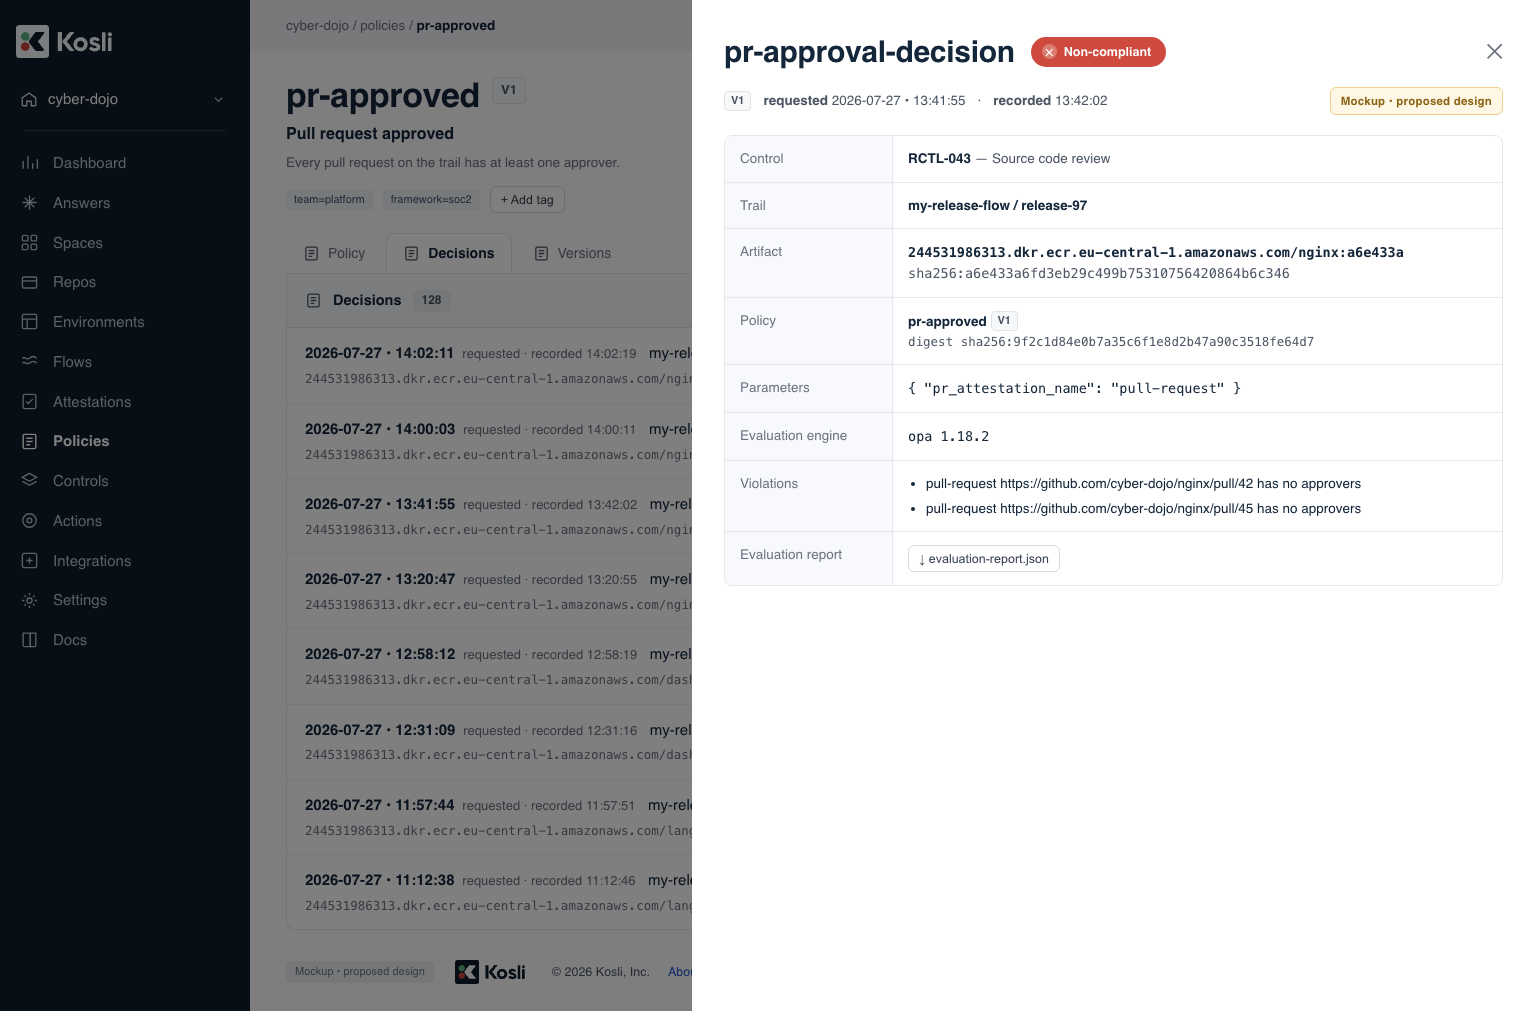
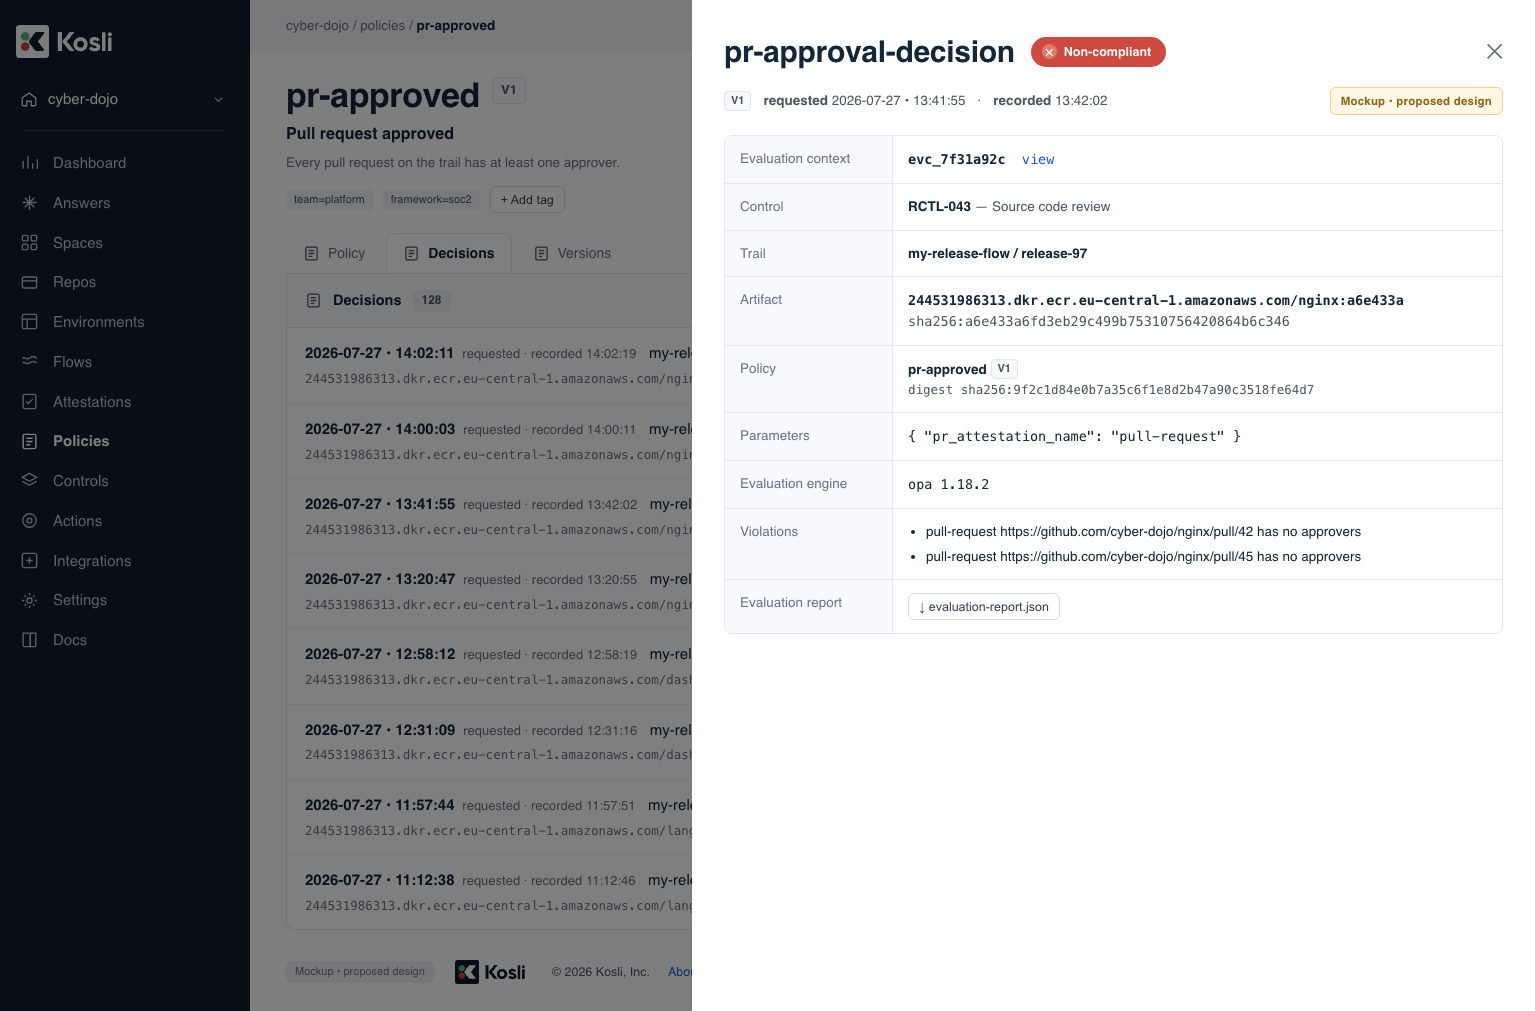
docs: export the evaluation context, and rename the flag to --context
Two corrections to the offline re-run and the command surface.

The export is now kosli get evaluation-context, not kosli get decision. The
evaluation context is the entity that actually holds what an evaluation was
given, so exporting the decision meant reaching through it to find the inputs.
More importantly a context exists from the moment an evaluation is queued, so
this also works when there is no decision to look at — a queued evaluation, or
one that failed, which is the case you most want to inspect. Decisions now name
the context they came from, in the decision detail mockup and in the
recorded-on-the-decision table, so the context ID is one hop away.

Rename --evaluation-context to --context. The old name described the entity
Kosli builds rather than what you pass, and it would have blocked the obvious
spelling for re-running a stored context (--context evc_...). --context also
survives the scope growing beyond attestations: a reported workload is a state
report, not a fact, so "facts" would have been wrong for it, while
--context snapshot=... reads naturally. --context-schema needs no change.

Note in the flag description that this selects what to evaluate, not a cluster
or account — kubectl has trained this audience to read --context the other way.

diff --git a/mockups/policies-ui/build.py b/mockups/policies-ui/build.py
@@ -345,6 +345,8 @@ tray = f"""<div class="scrim"></div>
       <span class="mock" style="margin-left:auto">Mockup &bull; proposed design</span></div>
   </div>
   <dl class="kv">
+    <div><dt>Evaluation context</dt><dd class="mono">evc_7f31a92c
+      <span style="font-weight:400;color:#1e55cd">&nbsp;view</span></dd></div>
     <div><dt>Control</dt><dd>RCTL-043 <span style="font-weight:400;color:#4b5563">
       &mdash; Source code review</span></dd></div>
     <div><dt>Trail</dt><dd>my-release-flow / release-97</dd></div>
